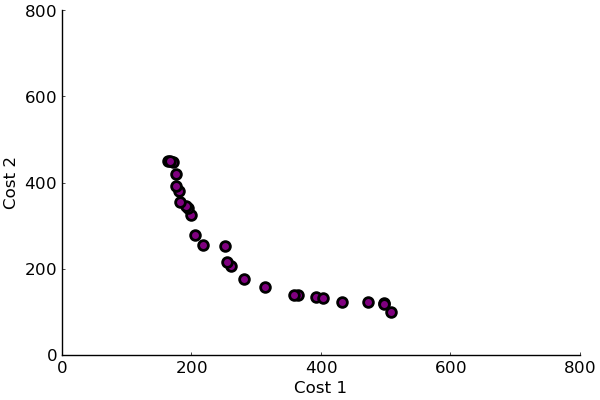
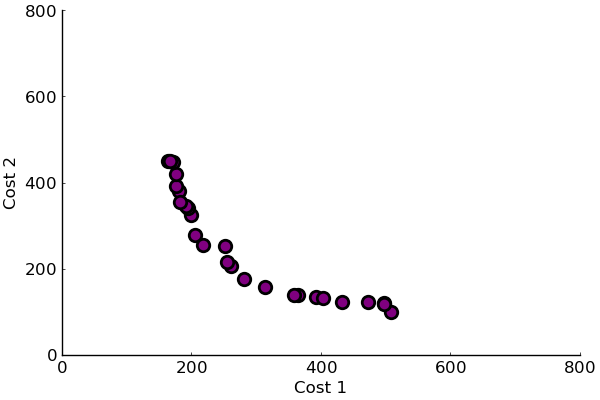
update image again

Changed region(s): [[0.27, 0.36, 0.45, 0.75], [0.48, 0.72, 0.66, 0.81]]

diff --git a/README.md b/README.md
@@ -15,12 +15,12 @@ cost = [rand(Uniform(0, 50), n_nodes, n_nodes) for _ in 1:n_obj]
 iterations = 2000
 method = AntColony(n_ants=100, n_nodes=n_nodes, β=4.0)
 options = (parallel = true, progress = false)
-@elapsed result = optimize(method, cost, iterations; options...)
+result = optimize(method, cost, iterations; options...)
 
 frontier = get_best_cost(result.frontier)
 pyplot()
 scatter(frontier, grid=false, leg=false, ylims=(0,800), xlims=(0,800),
-    size=(600,400), markersize=7, markerstrokewidth=2, color=:purple, xlabel="Cost 1",
+    size=(600,400), markersize=9, markerstrokewidth=2, color=:purple, xlabel="Cost 1",
      ylabel="Cost 2", xaxis=font(12), yaxis=font(12))
 ```
 
